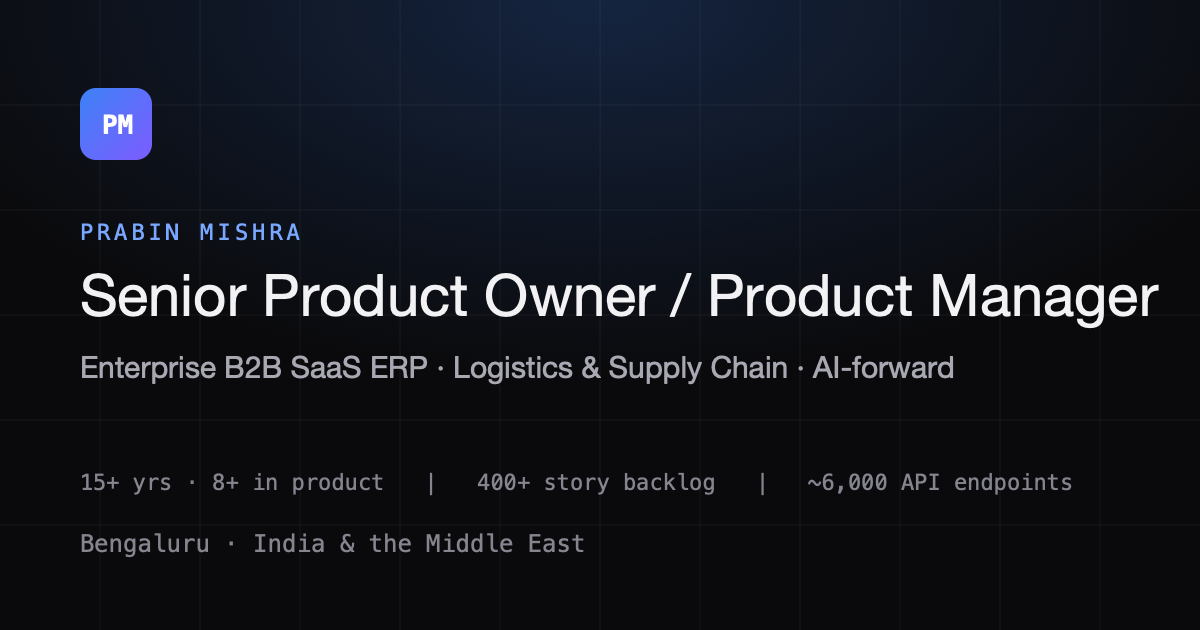
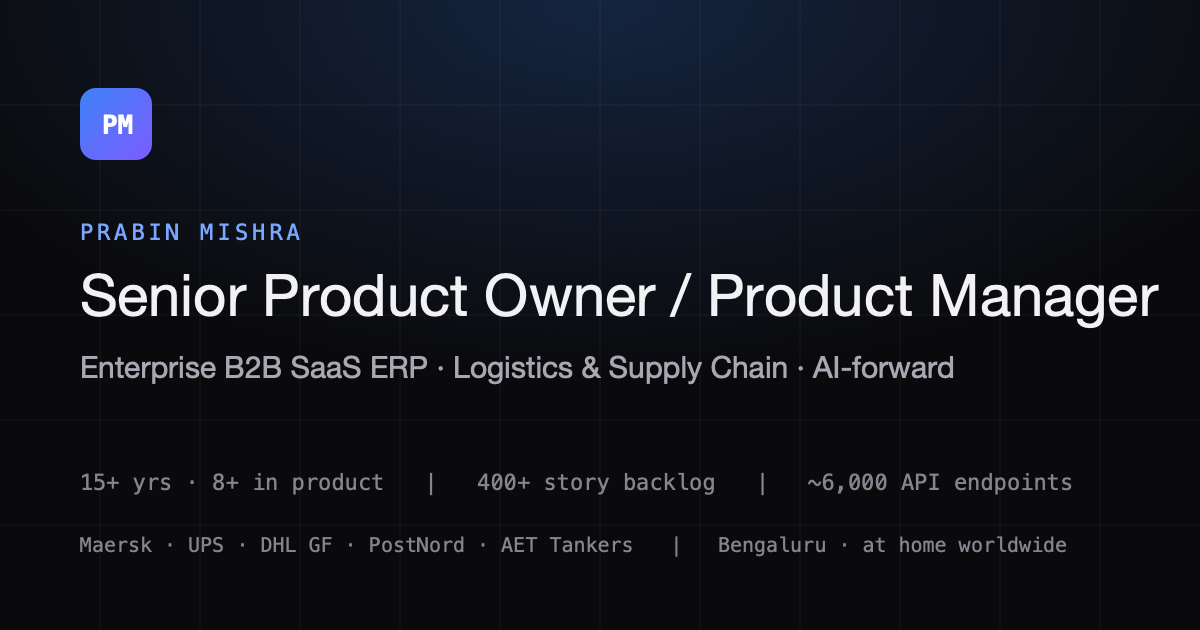
Feature logistics client names; broaden location wording
Add a logistics client strip (Maersk, UPS, DHL Global Forwarding,
PostNord, AET Tankers) under signature strengths and name the clients
in the timeline entries and chat knowledge base, with a new chat
intent for client questions. Fix intent regexes that failed on plural
forms (logistics, certifications, achievements, etc.). Reword location
copy from Middle East-specific to internationally open, on the page,
in the OG image and in the chat.

Changed region(s): [[0.5858, 0.8444, 0.8942, 0.8746], [0.2158, 0.8444, 0.5242, 0.8746], [0.0617, 0.8444, 0.185, 0.8746]]

diff --git a/js/kb.js b/js/kb.js
@@ -56,7 +56,7 @@ window.RESUME_KB = {
 
   facts: [
     { id: "identity", tags: ["who", "profile", "summary", "product", "owner", "manager"], anchor: "#top",
-      text: "Prabin Mishra is a Senior Product Owner / Product Manager focused on enterprise B2B SaaS, logistics & supply chain — now AI-forward. He's based in Whitefield, Bengaluru, India, and at home working across geographies, including the Middle East." },
+      text: "Prabin Mishra is a Senior Product Owner / Product Manager focused on enterprise B2B SaaS, logistics & supply chain — now AI-forward. He's based in Whitefield, Bengaluru, India, and at home working anywhere in the world." },
 
     { id: "experience-years", tags: ["experience", "years", "career", "long"], anchor: "#experience",
       text: "He has 15+ years of total experience (since 2010), with 8+ years focused on product ownership and product management." },
@@ -88,8 +88,8 @@ window.RESUME_KB = {
     { id: "erp-depth", tags: ["erp", "domain", "inventory", "order", "distribution"], anchor: "#strengths",
       text: "His ERP depth covers order-to-cash, order management, distribution, purchasing / AP and inventory — on a live cloud ERP serving 500–2,000 global customers." },
 
-    { id: "nordic-role", tags: ["tcs", "logistics", "mobile", "nordic", "product", "team", "user"], anchor: "#experience",
-      text: "Nov 2018 – Apr 2021, as Technical Product Owner at TCS (Nordic Distribution Mobility) he owned 2–4 simultaneous products (iOS / Android + web) for distribution planning and last-mile execution for a major Nordic logistics / CEP enterprise — up to 10,000 daily users across 3 countries." },
+    { id: "nordic-role", tags: ["tcs", "logistics", "mobile", "nordic", "postnord", "product", "team", "user"], anchor: "#experience",
+      text: "Nov 2018 – Apr 2021, as Technical Product Owner at TCS (Nordic Distribution Mobility) he owned 2–4 simultaneous products (iOS / Android + web) for distribution planning and last-mile execution for PostNord, the Nordic logistics / CEP leader — up to 10,000 daily users across 3 countries." },
 
     { id: "nordic-metrics", tags: ["impact", "logistics", "tcs", "achievement", "stakeholder", "agile"], anchor: "#experience",
       text: "In the Nordic role he achieved ~4% loading-time efficiency per parcel and a 6% reduction in failed deliveries via root-cause analysis on poor KPIs, ran roadmap reviews with C-suite/VP stakeholders in Stockholm, and ran full Agile / Scrum ceremonies across distributed India–Sweden teams." },
@@ -97,11 +97,14 @@ window.RESUME_KB = {
     { id: "business-case", tags: ["achievement", "business", "case", "tcs", "logistics", "consulting", "impact"], anchor: "#experience",
       text: "At TCS Transportation Practice (Jun 2015 – Nov 2018) he built a $50M business case for a logistics technology product (transport-document digitization) targeting Shipping, Port Operators and Postal / Logistics customers — adopted by leadership and it led to a customer deal." },
 
-    { id: "consulting", tags: ["consulting", "tcs", "customer", "o2c", "analysis"], anchor: "#experience",
-      text: "He partnered with 10+ strategic customers across geographies on O2C / R2R process consulting, business analysis and product management." },
+    { id: "consulting", tags: ["consulting", "tcs", "customer", "o2c", "analysis", "maersk", "dhl"], anchor: "#experience",
+      text: "He partnered with 10+ strategic customers across geographies — including Maersk, UPS and DHL Global Forwarding — on O2C / R2R process consulting, business analysis and product management." },
 
-    { id: "bi-platform", tags: ["data", "tcs", "stakeholder", "microsoft"], anchor: "#experience",
-      text: "In 2017–18 (Singapore / Houston) he gathered requirements for a digital BI platform on the Microsoft BI stack, designed executive Power BI dashboards, and trained the Executive Leadership Team (incl. CFO / CXOs) of a tanker owner-operator." },
+    { id: "bi-platform", tags: ["data", "tcs", "stakeholder", "microsoft", "aet"], anchor: "#experience",
+      text: "In 2017–18 (Singapore / Houston) he gathered requirements for a digital BI platform on the Microsoft BI stack, designed executive Power BI dashboards, and trained the Executive Leadership Team (incl. CFO / CXOs) of AET Tankers, a global tanker owner-operator." },
+
+    { id: "logistics-clients", tags: ["clients", "maersk", "dhl", "postnord", "aet", "logistics", "brands"], anchor: "#strengths",
+      text: "His logistics & supply chain track record spans the industry's biggest names: Maersk, UPS and DHL Global Forwarding (TCS Transportation Practice consulting), PostNord (Nordic distribution mobility products) and AET Tankers (executive BI platform)." },
 
     { id: "accenture", tags: ["accenture", "consulting", "healthcare", "pharma", "retail"], anchor: "#experience",
       text: "Apr – Sep 2021 he was Associate Manager at Accenture (Living Systems Advisory), leading consulting teams on maturity assessments and business-transformation engagements for pharma, retail and US healthcare clients." },
@@ -155,7 +158,7 @@ window.RESUME_KB = {
       text: "Email: prabinmishra87@gmail.com · LinkedIn: linkedin.com/in/prabinmishra · GitHub: github.com/prabin-mishra." },
 
     { id: "location-relocation", tags: ["relocation", "uae", "location", "bengaluru", "bangalore", "india", "roles"], anchor: "#contact",
-      text: "He's based in Whitefield, Bengaluru, India, and geographically flexible — he has delivered from India, Sweden, Denmark, Singapore and the US, and the UAE / Dubai is comfortable territory. For the right senior product conversation in B2B SaaS or an AI-forward company (think Lead / Principal Product Manager, Senior / Lead Product Owner, Lead / Principal Business Analyst), his inbox is always open: prabinmishra87@gmail.com." }
+      text: "He's based in Whitefield, Bengaluru, India, and geographically flexible — he has delivered from India, Sweden, Denmark, Singapore and the US, and is open to international locations in general. For the right senior product conversation in B2B SaaS or an AI-forward company (think Lead / Principal Product Manager, Senior / Lead Product Owner, Lead / Principal Business Analyst), his inbox is always open: prabinmishra87@gmail.com." }
   ],
 
   /* Curated intents, checked in order. `match` is tested against the
@@ -165,11 +168,11 @@ window.RESUME_KB = {
       lead: "Hi! Ask me anything about Prabin's experience — ERP, AI tooling, achievements, education, location. I answer only from the verified profile on this page.",
       facts: [] },
 
-    { id: "who", match: /\b(who is|who's|about (him|prabin)|tell me about|introduce|elevator|overview|profile|summary|background)\b/,
+    { id: "who", match: /\b(who is|who's|about (him|prabin)|introduce|elevator|overview|profile|summary|background)\b/,
       lead: "Here's the short version:",
       facts: ["identity", "experience-years", "current-role"] },
 
-    { id: "achievement", match: /\b(achievement|biggest|greatest|proud|flagship|impressive|notable|best work)\b/,
+    { id: "achievement", match: /\b(achievements?|biggest|greatest|proud|flagship|impressive|notable|best work)\b/,
       lead: "His flagship achievement:",
       facts: ["api-platform", "business-case"] },
 
@@ -177,11 +180,11 @@ window.RESUME_KB = {
       lead: "Yes — enterprise ERP is his core depth.",
       facts: ["erp-depth", "current-role", "api-platform"] },
 
-    { id: "ai", match: /\b(ai|artificial intelligence|gpt|gpts|copilot|agent|agentic|llm|prompt|machine learning|genai|automation)\b/,
+    { id: "ai", match: /\b(ai|artificial intelligence|gpts?|copilot|agents?|agentic|llms?|prompt|machine learning|genai|automation)\b/,
       lead: "AI is his differentiator — built and adopted, not just certified:",
       facts: ["ai-tools", "certs-ai", "this-site"] },
 
-    { id: "api", match: /\b(api|apis|endpoint|integration|headless|composable|platform work)\b/,
+    { id: "api", match: /\b(apis?|endpoints?|integrations?|headless|composable|platform work)\b/,
       lead: "The API platform is his flagship:",
       facts: ["api-platform"] },
 
@@ -189,7 +192,7 @@ window.RESUME_KB = {
       lead: "",
       facts: ["experience-years", "timeline-summary"] },
 
-    { id: "relocation", match: /\b(reloc|uae|dubai|abroad|willing to move|visa|work permit|where is he|based|location|remote)\b/,
+    { id: "relocation", match: /\b(relocat\w*|uae|dubai|abroad|willing to move|visas?|work permits?|where is he|based|locations?|remote|international\w*)\b/,
       lead: "",
       facts: ["location-relocation"],
       note: q => /\b(visa|permit|sponsor)\b/.test(q)
@@ -204,27 +207,31 @@ window.RESUME_KB = {
       lead: "",
       facts: ["education-mba", "education-btech"] },
 
-    { id: "certification", match: /\b(certif|credential|pspo|cspo|az.?900|azure fundamentals|scrum\.org|pendo|vanderbilt|itil|iiba|cscmp)\b/,
+    { id: "certification", match: /\b(certif\w*|credentials?|pspo|cspo|az.?900|azure fundamentals|scrum\.org|pendo|vanderbilt|itil|iiba|cscmp)\b/,
       lead: "Certifications, AI-first:",
       facts: ["certs-ai", "certs-product"] },
 
-    { id: "team", match: /\b(team|squad|engineers|manage|managed|leadership style|direct reports|people|how many engineers|led)\b/,
+    { id: "team", match: /\b(teams?|squads?|engineers?|manage|managed|leadership style|direct reports|people|how many engineers|led)\b/,
       lead: "",
       facts: ["team", "nordic-role", "stakeholders"] },
 
-    { id: "stakeholder", match: /\b(stakeholder|c.?suite|cxo|cfo|executive|vp|board|senior leadership)\b/,
+    { id: "stakeholder", match: /\b(stakeholders?|c.?suite|cxos?|cfo|executives?|vps?|board|senior leadership)\b/,
       lead: "Yes — regularly, at three different organizations:",
       facts: ["stakeholders"] },
 
-    { id: "impact", match: /\b(impact|metric|kpi|number|result|outcome|quantif|data.?driven|measurable)\b/,
+    { id: "impact", match: /\b(impact|metrics?|kpis?|numbers?|results?|outcomes?|quantif\w*|data.?driven|measurable)\b/,
       lead: "The quantified wins:",
       facts: ["epicor-metrics", "nordic-metrics", "business-case"] },
 
-    { id: "logistics", match: /\b(logistic|supply chain|last.?mile|cep|parcel|delivery|deliveries|shipping|port|freight|transport)\b/,
-      lead: "Logistics & supply chain run through his whole career:",
-      facts: ["domains", "nordic-role", "business-case"] },
+    { id: "clients", match: /\b(maersk|postnord|aet|dhl|clients?|logos?|brands?)\b|(^|[^-\w])ups\b/,
+      lead: "Named enterprises he has delivered for:",
+      facts: ["logistics-clients", "consulting"] },
 
-    { id: "agile", match: /\b(agile|scrum|safe|kanban|sprint|ceremonies|jira|confluence|backlog|refinement|story mapping)\b/,
+    { id: "logistics", match: /\b(logistics?|supply chain|last.?mile|cep|parcels?|delivery|deliveries|shipping|ports?|freight|transport\w*)\b/,
+      lead: "Logistics & supply chain run through his whole career:",
+      facts: ["logistics-clients", "nordic-role", "business-case"] },
+
+    { id: "agile", match: /\b(agile|scrum|safe|kanban|sprints?|ceremon\w*|jira|confluence|backlogs?|refinement|story mapping)\b/,
       lead: "",
       facts: ["skills-agile", "team", "current-role"] },
 
@@ -240,7 +247,7 @@ window.RESUME_KB = {
       lead: "He builds outside work hours too:",
       facts: ["side-projects", "this-site"] },
 
-    { id: "why-hire", match: /\b(why (should|hire)|strengths|unique|differentiat|stand out|value|good at|uvp|superpower)\b/,
+    { id: "why-hire", match: /\b(why (should|hire)|strengths?|unique|differentiat\w*|stand out|value|good at|uvp|superpowers?)\b/,
       lead: "",
       facts: ["strengths-summary", "ai-tools"] },
 

diff --git a/index.html b/index.html
@@ -4,7 +4,7 @@
   <meta charset="UTF-8">
   <meta name="viewport" content="width=device-width, initial-scale=1">
   <title>Prabin Mishra · Senior Product Owner / Product Manager — B2B SaaS ERP &amp; AI</title>
-  <meta name="description" content="Prabin Mishra — Senior Product Owner / Product Manager. 15+ years in enterprise B2B SaaS, logistics & supply chain; 8+ in product. Owns the roadmap and 400+ story backlog for Epicor BisTrack Web and an API platform of ~6,000 endpoints. AI-forward: Custom GPTs, Copilot Studio agents. Based in Bengaluru, at home across India and the Middle East.">
+  <meta name="description" content="Prabin Mishra — Senior Product Owner / Product Manager. 15+ years in enterprise B2B SaaS, logistics & supply chain; 8+ in product. Owns the roadmap and 400+ story backlog for Epicor BisTrack Web and an API platform of ~6,000 endpoints. AI-forward: Custom GPTs, Copilot Studio agents. Based in Bengaluru, at home anywhere in the world.">
   <meta name="color-scheme" content="dark light">
   <meta name="theme-color" content="#0a0a0c">
 
@@ -126,7 +126,7 @@
         <p class="hero-meta reveal">
           <span>15+ years experience · 8+ in product</span>
           <span class="dot-sep" aria-hidden="true">·</span>
-          <span>Whitefield, Bengaluru — at home across India &amp; the Middle East</span>
+          <span>Whitefield, Bengaluru — at home anywhere in the world</span>
         </p>
       </div>
     </section>
@@ -200,6 +200,18 @@
             <h3>AI-forward operator</h3>
             <p>Stacked AI / PM certifications plus real internal AI tooling built and adopted — Custom GPTs, Copilot Studio agents, and an AI agent that automates API spec authoring.</p>
           </article>
+        </div>
+
+        <div class="clients-strip reveal">
+          <p class="clients-label">Logistics &amp; supply chain, proven with the industry's biggest names</p>
+          <ul class="clients-list" aria-label="Enterprises delivered for">
+            <li>Maersk</li>
+            <li>UPS</li>
+            <li>DHL Global Forwarding</li>
+            <li>PostNord</li>
+            <li>AET Tankers</li>
+          </ul>
+          <p class="clients-note">Delivered through TCS Transportation Practice &amp; Nordic engagements, 2015&ndash;2021</p>
         </div>
       </div>
     </section>
@@ -275,7 +287,7 @@
             <div class="tl-detail" id="tl-detail-nordic" role="region" aria-label="TCS Nordic role detail">
               <div class="tl-detail-inner">
                 <ul class="tl-bullets">
-                  <li>Owned <strong>2&ndash;4 simultaneous products</strong> (iOS / Android + web) for distribution planning and last-mile execution for a major Nordic logistics / CEP enterprise — up to <strong>10,000 daily users across 3 countries</strong>.</li>
+                  <li>Owned <strong>2&ndash;4 simultaneous products</strong> (iOS / Android + web) for distribution planning and last-mile execution for <strong>PostNord</strong>, the Nordic logistics / CEP leader — up to <strong>10,000 daily users across 3 countries</strong>.</li>
                   <li>Achieved <strong>~4% loading-time efficiency per parcel</strong> and a <strong>6% reduction in failed deliveries</strong> through root-cause analysis on poor KPIs.</li>
                   <li>Ran roadmap reviews with C-suite / VP stakeholders in Stockholm; ran full Agile / Scrum ceremonies across distributed India&ndash;Sweden teams.</li>
                 </ul>
@@ -298,8 +310,8 @@
               <div class="tl-detail-inner">
                 <ul class="tl-bullets">
                   <li>Built a <strong>$50M business case</strong> for a logistics technology product (transport-document digitization) targeting Shipping, Port Operators and Postal / Logistics customers — adopted by leadership and led to a customer deal.</li>
-                  <li>Partnered with <strong>10+ strategic customers</strong> across geographies on O2C / R2R process consulting, business analysis and product management.</li>
-                  <li><strong>BI Platform (2017&ndash;18, Singapore / Houston):</strong> gathered requirements for a digital BI platform on the Microsoft BI stack; designed executive Power BI dashboards and trained the Executive Leadership Team (incl. CFO / CXOs) for a tanker owner-operator.</li>
+                  <li>Partnered with <strong>10+ strategic customers</strong> across geographies — including <strong>Maersk, UPS and DHL Global Forwarding</strong> — on O2C / R2R process consulting, business analysis and product management.</li>
+                  <li><strong>BI Platform (2017&ndash;18, Singapore / Houston):</strong> gathered requirements for a digital BI platform on the Microsoft BI stack; designed executive Power BI dashboards and trained the Executive Leadership Team (incl. CFO / CXOs) of <strong>AET Tankers</strong>, a global tanker owner-operator.</li>
                 </ul>
               </div>
             </div>
@@ -472,7 +484,7 @@
       <div class="container contact-inner">
         <p class="eyebrow reveal">Contact</p>
         <h2 class="section-title contact-title reveal">The fastest way to evaluate me is a <em>conversation.</em></h2>
-        <p class="section-sub reveal">If what you're building in B2B SaaS or applied AI could use this kind of depth, I'd genuinely enjoy comparing notes — Bengaluru, the UAE, or wherever great product gets built.</p>
+        <p class="section-sub reveal">If what you're building in B2B SaaS or applied AI could use this kind of depth, I'd genuinely enjoy comparing notes — in Bengaluru or wherever in the world great product gets built.</p>
         <div class="contact-cta reveal">
           <a class="btn btn-primary btn-lg" href="mailto:prabinmishra87@gmail.com">
             <svg width="16" height="16" viewBox="0 0 24 24" fill="none" stroke="currentColor" stroke-width="2" stroke-linecap="round" stroke-linejoin="round" aria-hidden="true"><rect x="2" y="4" width="20" height="16" rx="2"/><path d="m2 7 10 6L22 7"/></svg>

diff --git a/css/style.css b/css/style.css
@@ -497,6 +497,48 @@ html[data-theme="light"] .icon-sun { display: none; }
   border: 1px solid var(--accent-border);
 }
 
+.clients-strip {
+  margin-top: var(--space-7);
+  padding-top: var(--space-6);
+  border-top: 1px solid var(--border);
+  text-align: center;
+}
+
+.clients-label {
+  font-family: var(--font-mono);
+  font-size: 0.74rem;
+  font-weight: 500;
+  letter-spacing: 0.14em;
+  text-transform: uppercase;
+  color: var(--text-3);
+  margin-bottom: var(--space-5);
+}
+
+.clients-list {
+  display: flex;
+  flex-wrap: wrap;
+  justify-content: center;
+  align-items: baseline;
+  gap: var(--space-4) var(--space-6);
+}
+
+.clients-list li {
+  font-weight: 700;
+  font-size: clamp(1rem, 2vw, 1.3rem);
+  letter-spacing: 0.05em;
+  text-transform: uppercase;
+  color: var(--text-2);
+  text-align: center;
+  transition: color var(--dur-fast) var(--ease-out);
+}
+.clients-list li:hover { color: var(--text); }
+
+.clients-note {
+  margin-top: var(--space-4);
+  font-size: 0.78rem;
+  color: var(--text-3);
+}
+
 .strength-card h3 {
   font-size: 1.05rem;
   font-weight: 600;
